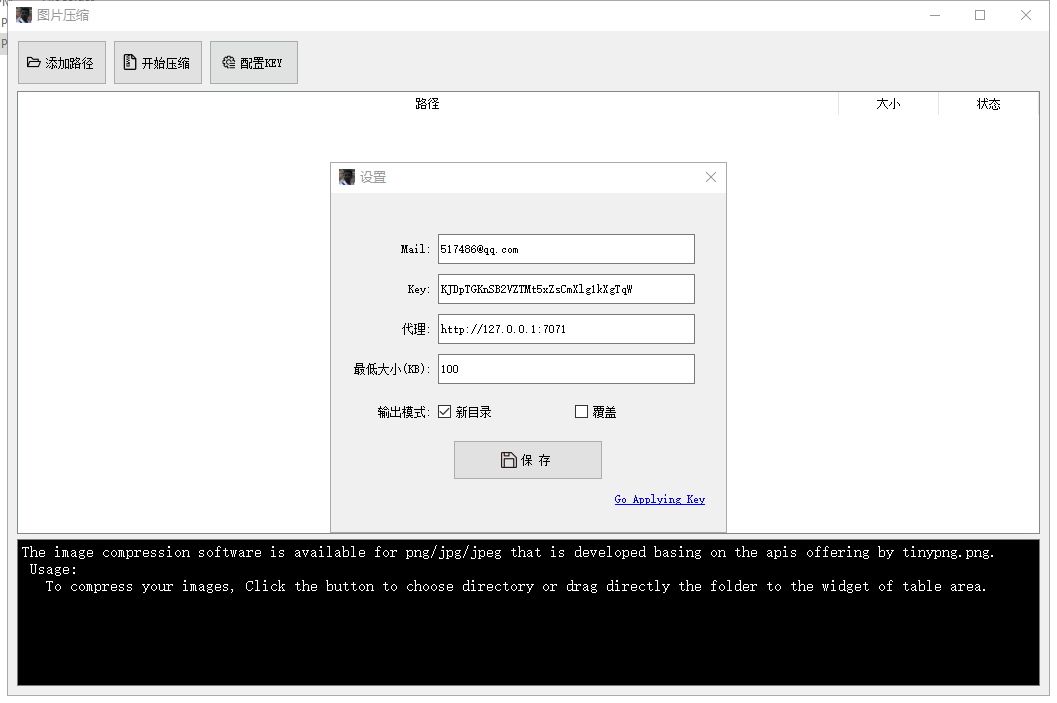
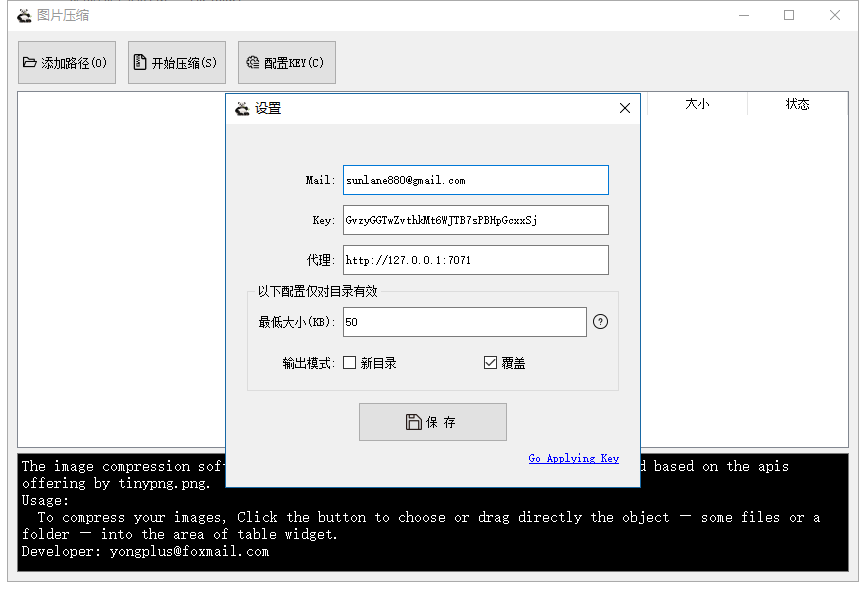
优化

diff --git a/README.md b/README.md
@@ -1,8 +1,15 @@
 # 图片压缩软件
-基于QT开发的tinypng压缩软件，window可安装直接运行，无需依然任何第三方库。
+基于QT开发的tinypng压缩软件，Windows系统可安装直接运行，无需依然任何第三方依赖包及库。因软件没有购买数字签名证书，安装过程中杀毒软件可能会误提示风险，请忽略或添加信任。
+
+日常开发经常会用到[tinypng.org](https://tinypng.org/)图片批量压缩，tinypng平均压缩率能达到60%，肉眼能观察到的画质损失微乎其微，对页面加载提速及体验、节省用户流量、缩小程序包有很大帮助。
+
+项目图片过多时，通过官方网站压缩效率低、繁琐，于是最初用go基于tinypng的API写了个CLI程序，后嫌麻烦，用Golang Qt写了个GUI程序，因Qt主要是C++写的，Go Qt无论是调试还是编译都极其慢和不方便，凭借对Qt的热爱和本着学习心态决定用C++把Go写的这套重写一遍。
+
+### 配置
+Tinypng Key是免费的，为了安装后可以直接用，软件源码中配置有2个账号，安装时会随机配置一个。每个key每月免费压缩为500次，若不够可以自己多申请几个（申请很简单，填写邮箱和昵称，便会收到邮件，根据邮件中的链接进入创建key即可）。
 
 ### Usage:
- There are two ways to add the files you wanna compress:  
+ There are two ways to add the files:  
  1.Clicking the button on the top-left choose one or more files or a folder.   
  2.Recommended way,For more convenient and efficient, The software support the object can be dragged directly into the area of table in the window.   
  3.You can push the button by a shortcut key releated to the button, For example :press Ctrl+O to add object, Ctrl+S to start task.   
